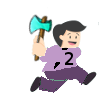
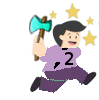
Miner Twitch image and details updated.

diff --git a/database/seeds/PuzzlesTableSeeder.php b/database/seeds/PuzzlesTableSeeder.php
@@ -96,7 +96,7 @@ class PuzzlesTableSeeder extends Seeder
         					miners only have one working lantern. In addition,
 							only two miners can traverse the tunnel at a time with the lantern.
 							Onika is uninjured and can walk the tunnel in one minute; Twitch 
-							has a limp, but can walk the tunnel in two minutes; Fiona has a 
+							has hit his head and is disoriented, but can walk the tunnel in two minutes; Fiona has a 
 							broken foot, but can manage to get through in four minutes; 
 							while Edward is more seriously injured and can only get
 							through in eight minutes. How can they escape in time?',
